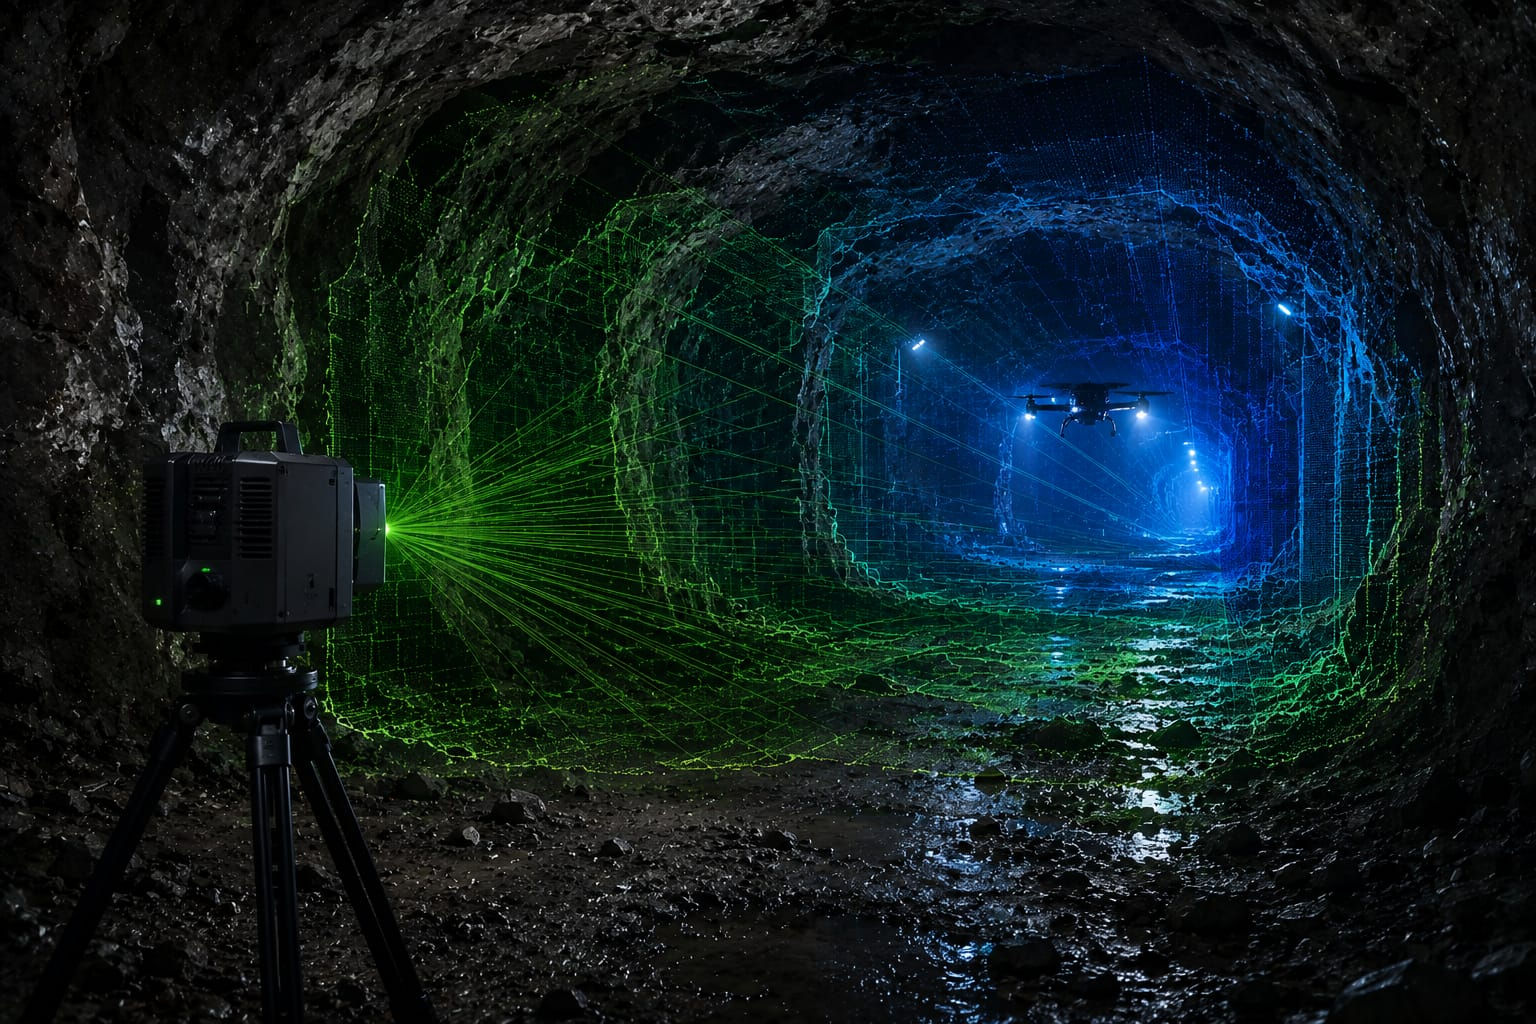
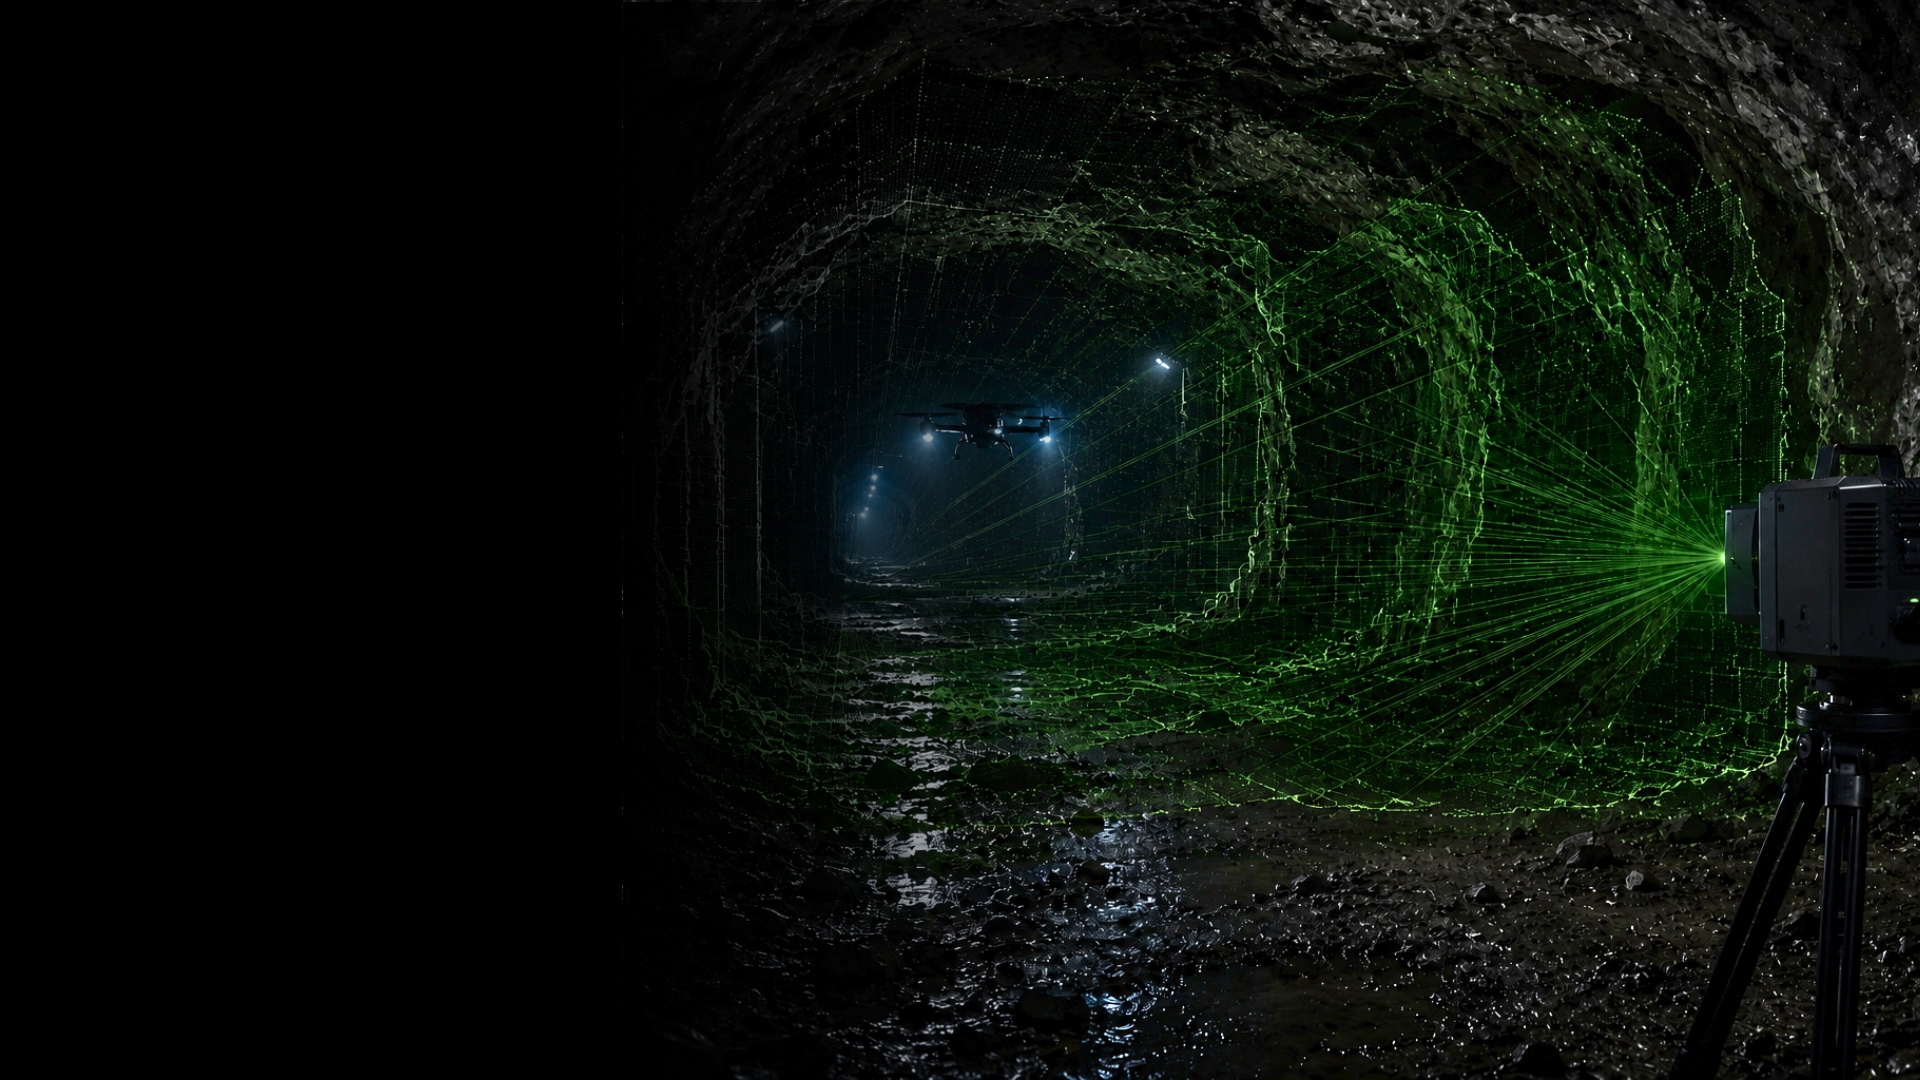
Update project

diff --git a/next-env.d.ts b/next-env.d.ts
@@ -1,6 +1,6 @@
 /// <reference types="next" />
 /// <reference types="next/image-types/global" />
-import "./.next/types/routes.d.ts";
+import "./.next/dev/types/routes.d.ts";
 
 // NOTE: This file should not be edited
 // see https://nextjs.org/docs/app/api-reference/config/typescript for more information.